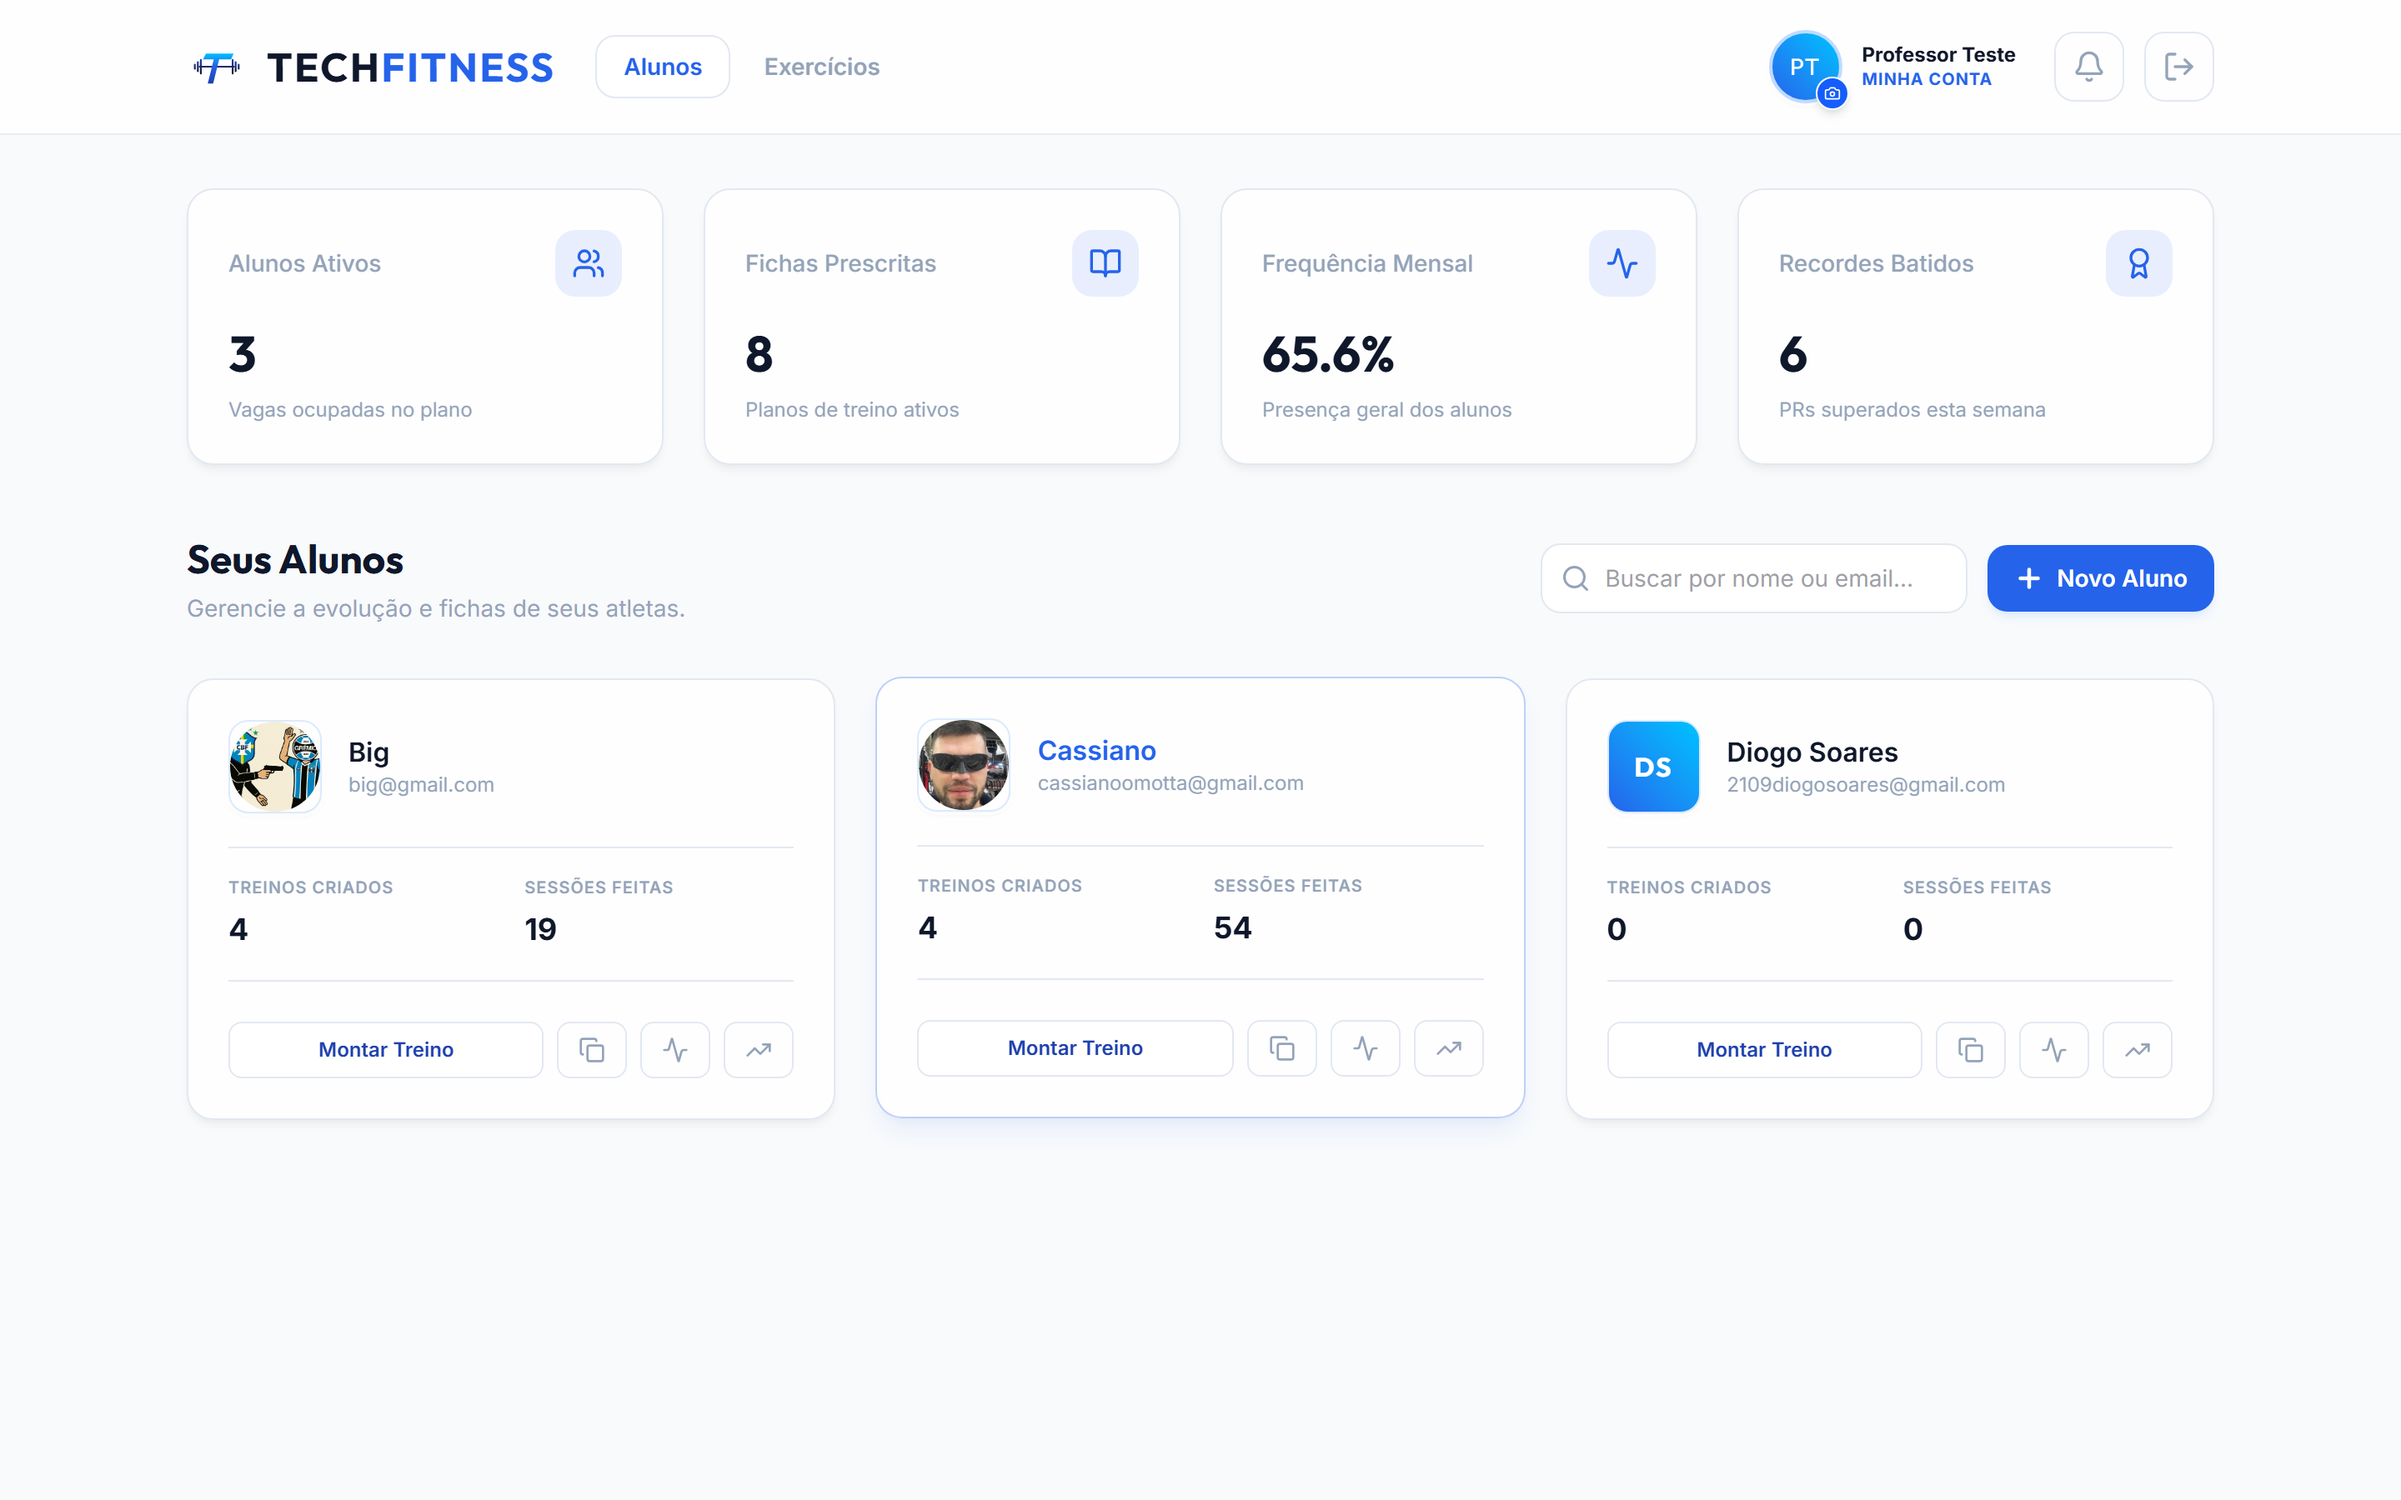
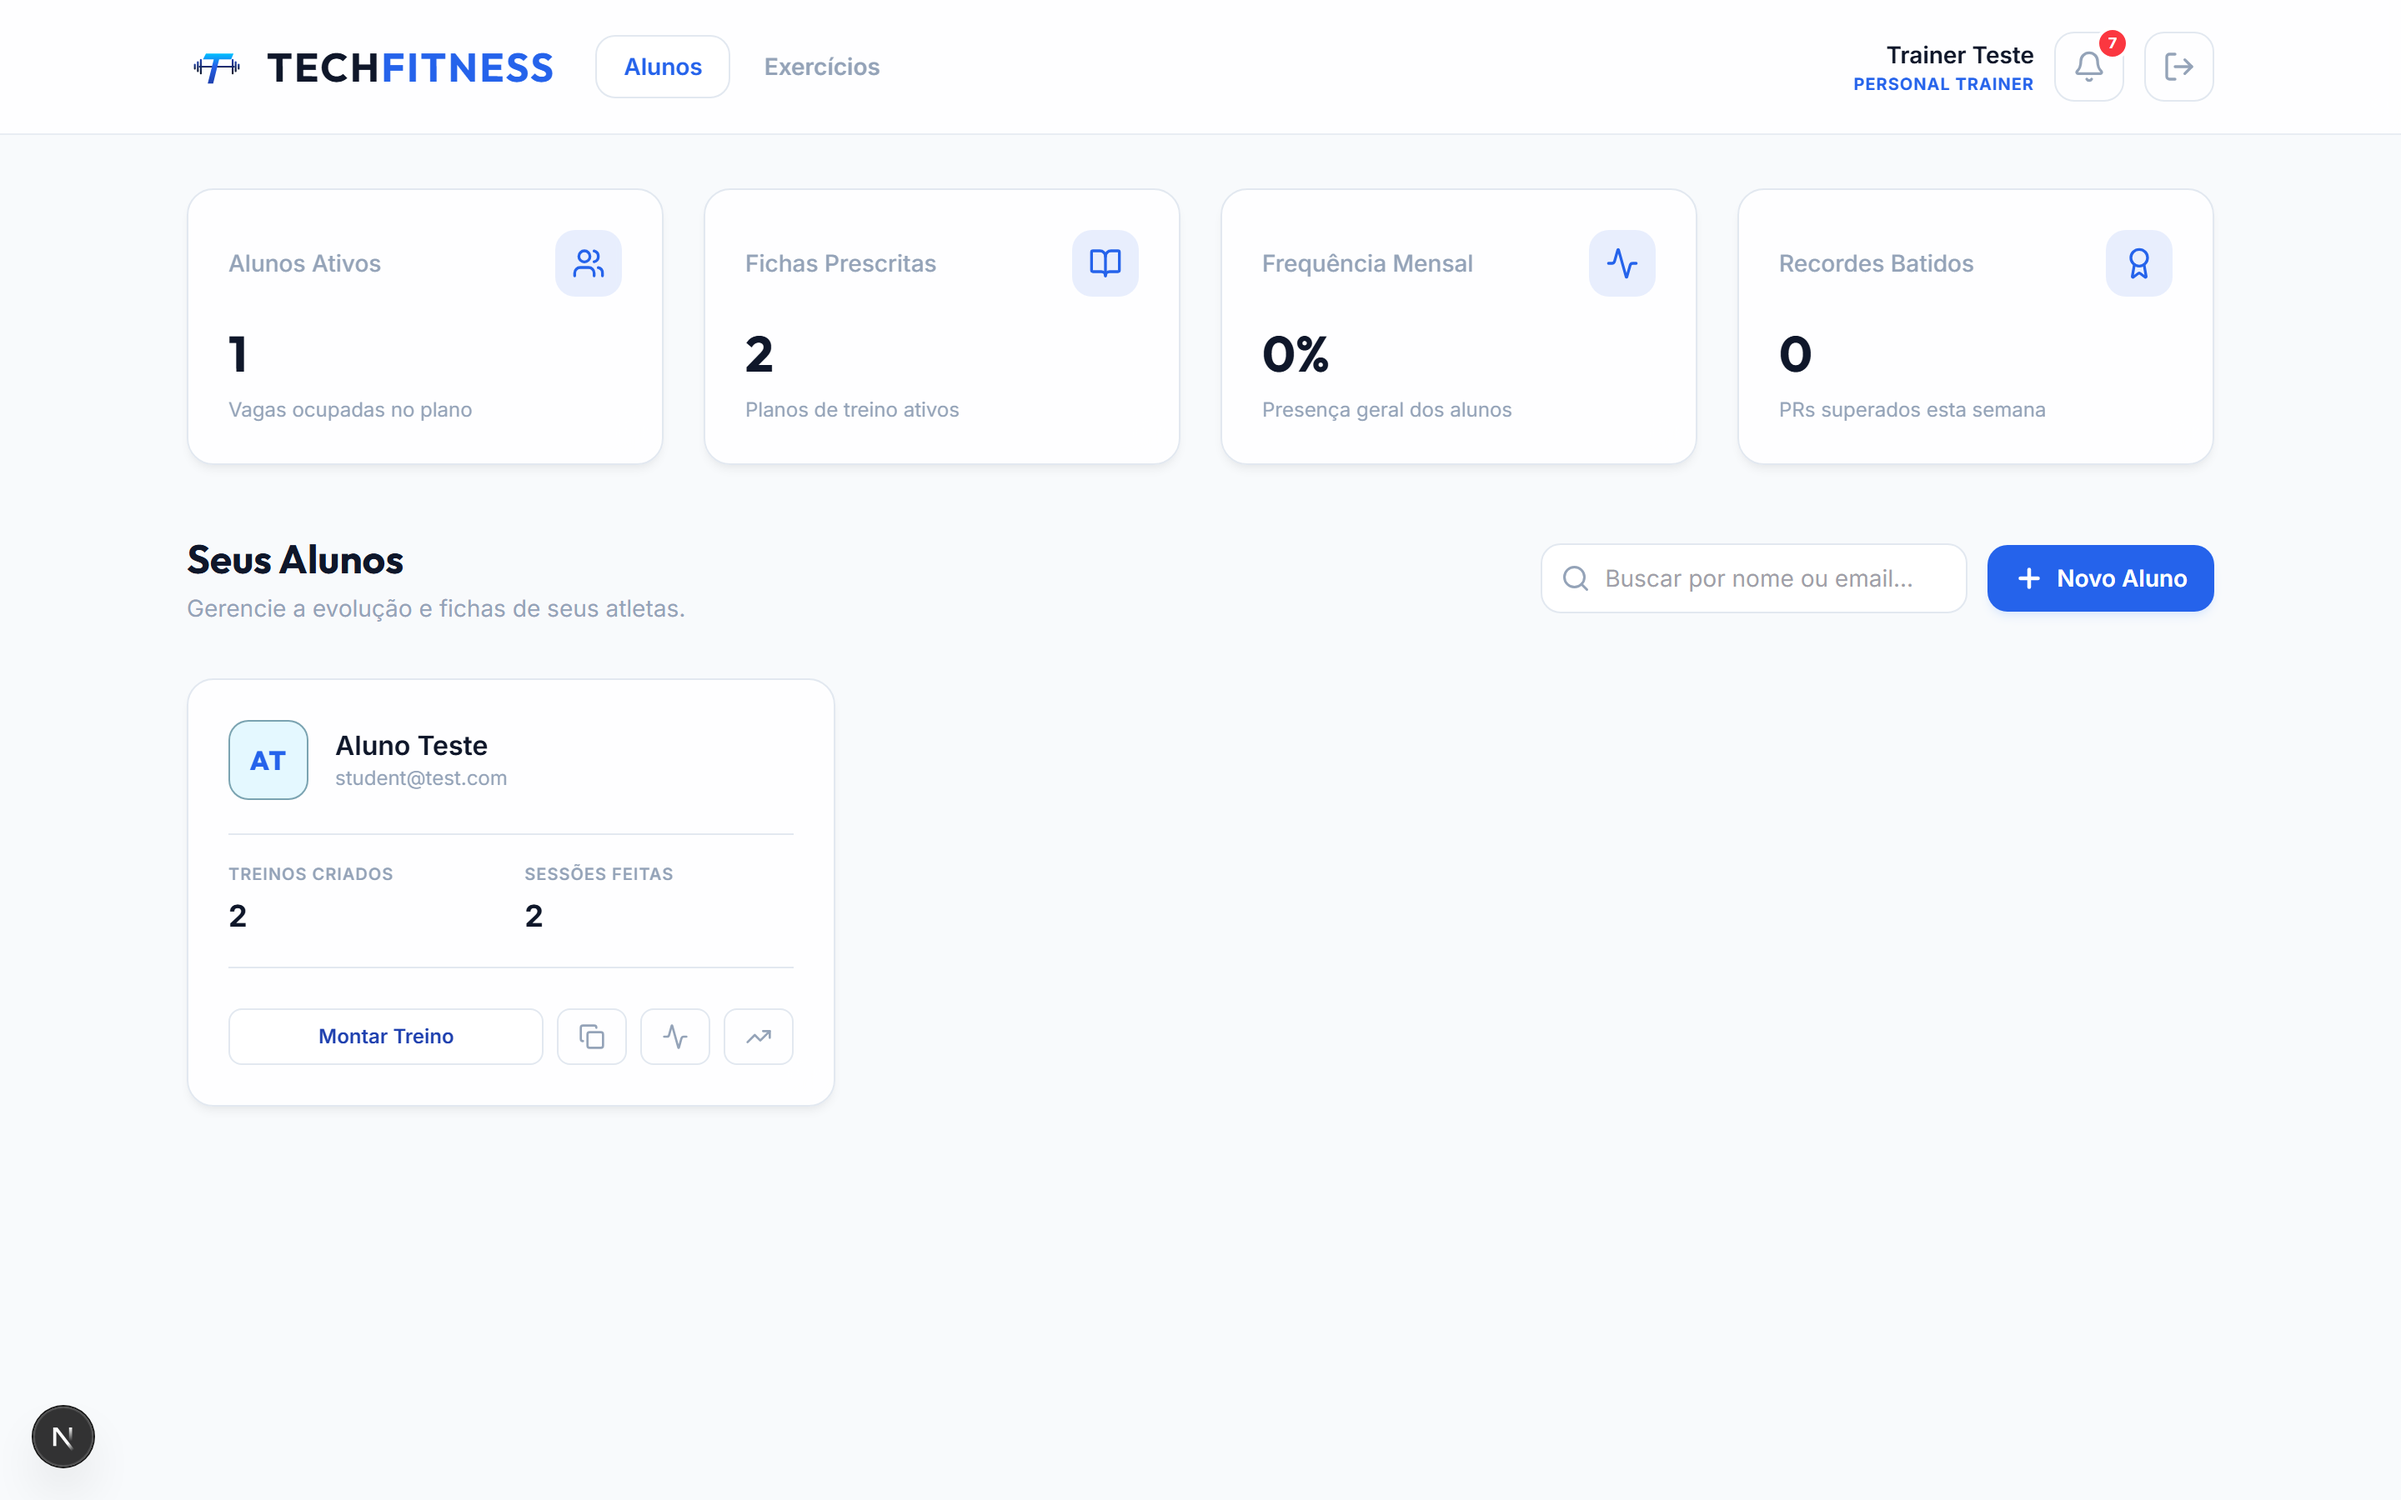
fix(portfolio): revert trainer screenshot to privacy-safe mock data with no user exposure

diff --git a/src/Projetos.jsx b/src/Projetos.jsx
@@ -26,8 +26,8 @@ const projectsData = [
     screenshots: [
       { url: '/techfitness-1.webp?v=v9', label: 'Landing Page & Apresentação SaaS' },
       { url: '/techfitness-2.webp?v=v9', label: 'Portal de Login & Autenticação' },
-      { url: '/techfitness-3.webp?v=v9', label: 'Dashboard do Treinador (Gestão de Alunos & Métricas)' },
-      { url: '/techfitness-4.webp?v=v9', label: 'Dashboard do Aluno (Cockpit RPG & Gamificação)' }
+      { url: '/techfitness-3.webp?v=v10', label: 'Dashboard do Treinador (Prescrição & Alunos)' },
+      { url: '/techfitness-4.webp?v=v10', label: 'Dashboard do Aluno (Cockpit RPG & Gamificação)' }
     ],
     description: {
       desafio: 'Academias, personais e assessorias enfrentam alta evasão por falta de engajamento contínuo, dificuldade no acompanhamento biométrico e ausência de percepção tangível de evolução física.',
